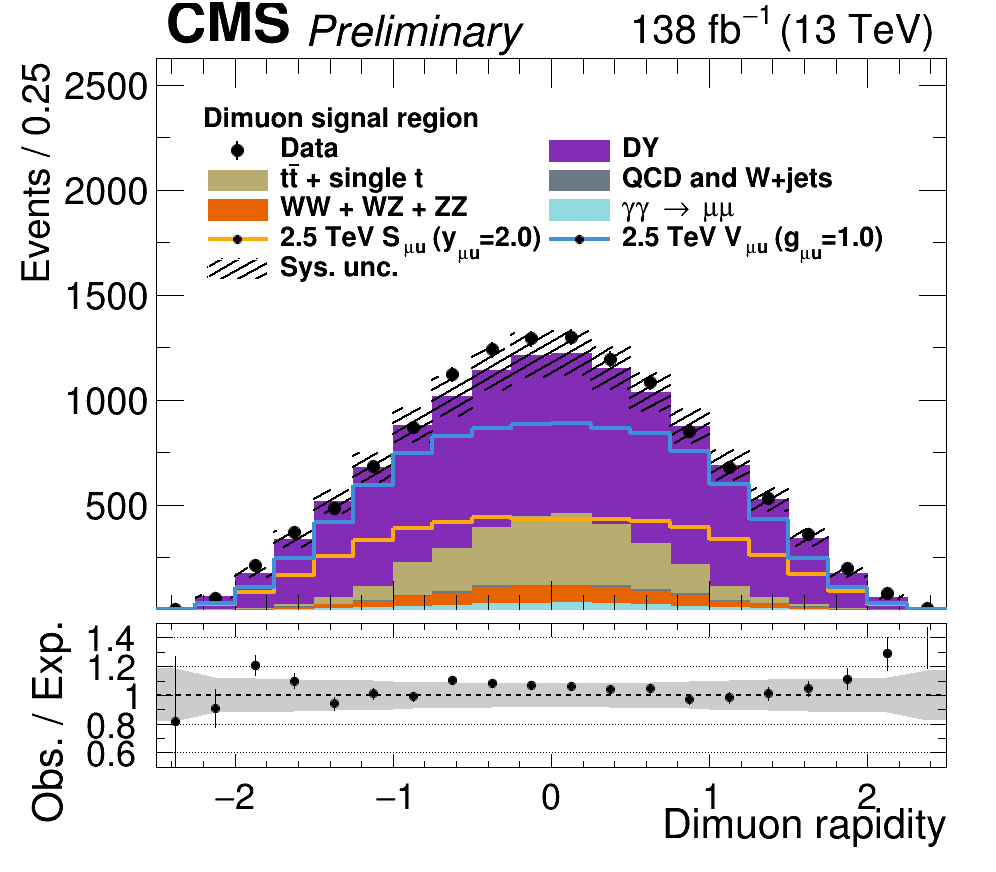
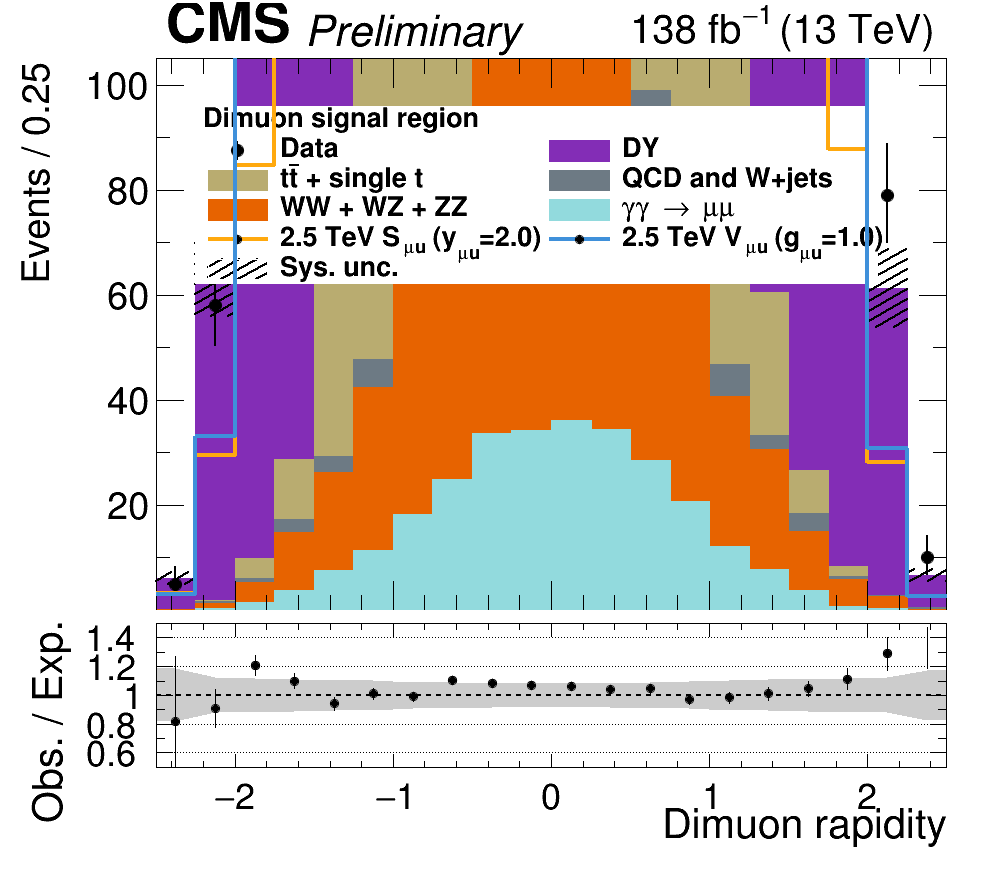
updated ymax

diff --git a/plots/MuMu/draw_cmp_from_saved.C b/plots/MuMu/draw_cmp_from_saved.C
@@ -47,7 +47,7 @@ void draw_cmp_from_saved(){
     TFile *fin = new TFile(fin_name, "READ");
     gStyle->SetOptStat(0);
     gROOT->SetBatch(1);
-    int year_start = 2018;
+    int year_start = 2016;
     int year_stop = 2018;
 
     for(int year = year_start; year <= year_stop; year++){
@@ -431,7 +431,7 @@ dy_cost->SetLineColor(DY_color);
     leg1->SetY2(y_start_m+y_size);
 
 
-    float hmax = 1000;
+    float hmax = 2000;
     float hmin = 0.001;
     // if(year == 2016)
     //     hmax *= 0.25;
@@ -443,13 +443,13 @@ dy_cost->SetLineColor(DY_color);
     sprintf(y_ax_label, "Events / GeV");
     std::tie(c_m, p_m) = make_stack_ratio_plot(data_m, m_stack, leg1, "m", "m_{#mu#mu} (GeV)",y_ax_label, plot_label, hmax, logy, logx, draw_sys_uncs, ratio_range, false, hmin);
     CMS_lumi(c_m, year, 11 );
-    //p_m->cd();
-    //LQu_m->Draw("hist  same");
-    //LQu_vec_m->Draw("hist  same");
-    sprintf(plt_file, "%sMuMu%s_m_cmp_1TeV.png", plot_dir, file_label );
+    p_m->cd();
+    LQu_m->Draw("hist  same");
+    LQu_vec_m->Draw("hist  same");
+    sprintf(plt_file, "%sMuMu%s_m_cmp.png", plot_dir, file_label );
     //if(write_out) c_m->Print(plt_file);
-    sprintf(plt_file, "%sMuMu%s_m_cmp_1TeV.pdf", plot_dir, file_label );
-    //if(write_out) c_m->Print(plt_file);
+    sprintf(plt_file, "%sMuMu%s_m_cmp.pdf", plot_dir, file_label );
+    if(write_out) c_m->Print(plt_file);
 
     
     //float x_start_c = 0.57 - x_size/2;
@@ -479,13 +479,13 @@ dy_cost->SetLineColor(DY_color);
     sprintf(y_ax_label, "Events / %.1f", cost_bin_size);
     std::tie(c_cost, p_cost) = make_stack_ratio_plot(data_cost, cost_stack, leg2, "cost", "cos #theta_{R}",y_ax_label, plot_label,  hmax, logy,logx, draw_sys_uncs, ratio_range);
     CMS_lumi(c_cost, year, 11);
-    //p_cost->cd();
-    //LQu_cost->Draw("hist  same");
-    //LQu_vec_cost->Draw("hist  same");
-    sprintf(plt_file, "%sMuMu%s_cost_cmp_1TeV.png", plot_dir, file_label);
+    p_cost->cd();
+    LQu_cost->Draw("hist  same");
+    LQu_vec_cost->Draw("hist  same");
+    sprintf(plt_file, "%sMuMu%s_cost_cmp.png", plot_dir, file_label);
     //if(write_out) c_cost->Print(plt_file);
-    sprintf(plt_file, "%sMuMu%s_cost_cmp_1TeV.pdf", plot_dir, file_label);
-    //if(write_out) c_cost->Print(plt_file);
+    sprintf(plt_file, "%sMuMu%s_cost_cmp.pdf", plot_dir, file_label);
+    if(write_out) c_cost->Print(plt_file);
 
 
     leg3->SetX1(x_start_c);
@@ -508,11 +508,11 @@ dy_cost->SetLineColor(DY_color);
     sprintf(y_ax_label, "Events / %.2f", rap_bin_size);
     std::tie(c_rap, p_rap) = make_stack_ratio_plot(data_rap, rap_stack, leg3, "rap", "Dimuon rapidity",y_ax_label, plot_label, hmax, logy, logx, draw_sys_uncs, ratio_range);
     CMS_lumi(c_rap, year, 11);
-    //p_rap->cd();
-    //LQu_rap->Draw("hist  same");
-    //LQu_vec_rap->Draw("hist  same");
-    sprintf(plt_file, "%sMuMu%s_rap_cmp_2018_1TeV.png", plot_dir, file_label);
+    p_rap->cd();
+    LQu_rap->Draw("hist  same");
+    LQu_vec_rap->Draw("hist  same");
+    sprintf(plt_file, "%sMuMu%s_rap_cmp.png", plot_dir, file_label);
     if(write_out) c_rap->Print(plt_file);
-    sprintf(plt_file, "%sMuMu%s_rap_cmp_2018_1TeV.pdf", plot_dir, file_label);
+    sprintf(plt_file, "%sMuMu%s_rap_cmp.pdf", plot_dir, file_label);
     if(write_out) c_rap->Print(plt_file);
 }

diff --git a/plots/MuMu/save_hists.C b/plots/MuMu/save_hists.C
@@ -144,7 +144,7 @@ void save_hists(){
 
 
 
-        float m_low = 1000.;
+        float m_low = 500.;
         float m_high = 13000;
         bool ss = false;
 
